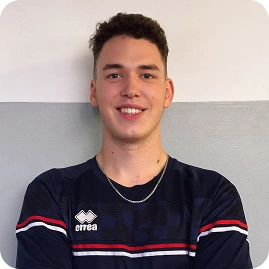
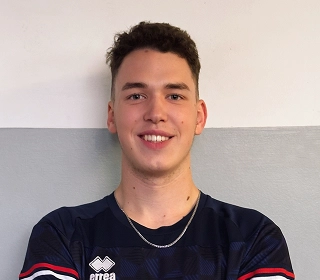
fix(app): change images of coachs

diff --git a/src/widgets/coaches/ui/coach-сard.tsx b/src/widgets/coaches/ui/coach-сard.tsx
@@ -6,8 +6,8 @@ type CoachCardProps = Coach;
 export function CoachCard({ name, description, src, alt }: CoachCardProps) {
   return (
     <div className="flex flex-col items-center gap-5">
-      <div className="rounded-[20px] border-2 border-[oklch(83.27%_0.002_247.32deg)]">
-        <div className="relative h-[270px] w-[270px] overflow-hidden rounded-t-[20px]">
+      <div className="flex flex-col items-center rounded-[18px] border-2 border-[oklch(83.27%_0.002_247.32deg)]">
+        <div className="relative h-70 w-80 overflow-hidden rounded-t-[18px]">
           <Image src={src} alt={alt} fill />
         </div>
         <hgroup className="flex max-w-[268px] flex-col items-center gap-3">

diff --git a/src/widgets/coaches/model/data.ts b/src/widgets/coaches/model/data.ts
@@ -33,7 +33,7 @@ export const coachesData: Coach[] = [
   },
   {
     name: "Виктория Крупко",
-    description: "Ведущий тренер в городе Бресте",
+    description: "Ведущий тренер в городе Бресте, чемпион по волейболу 2018",
     src: "/coaches/krupko.webp",
     alt: "Фото тренера Виктории Крупко",
   },
